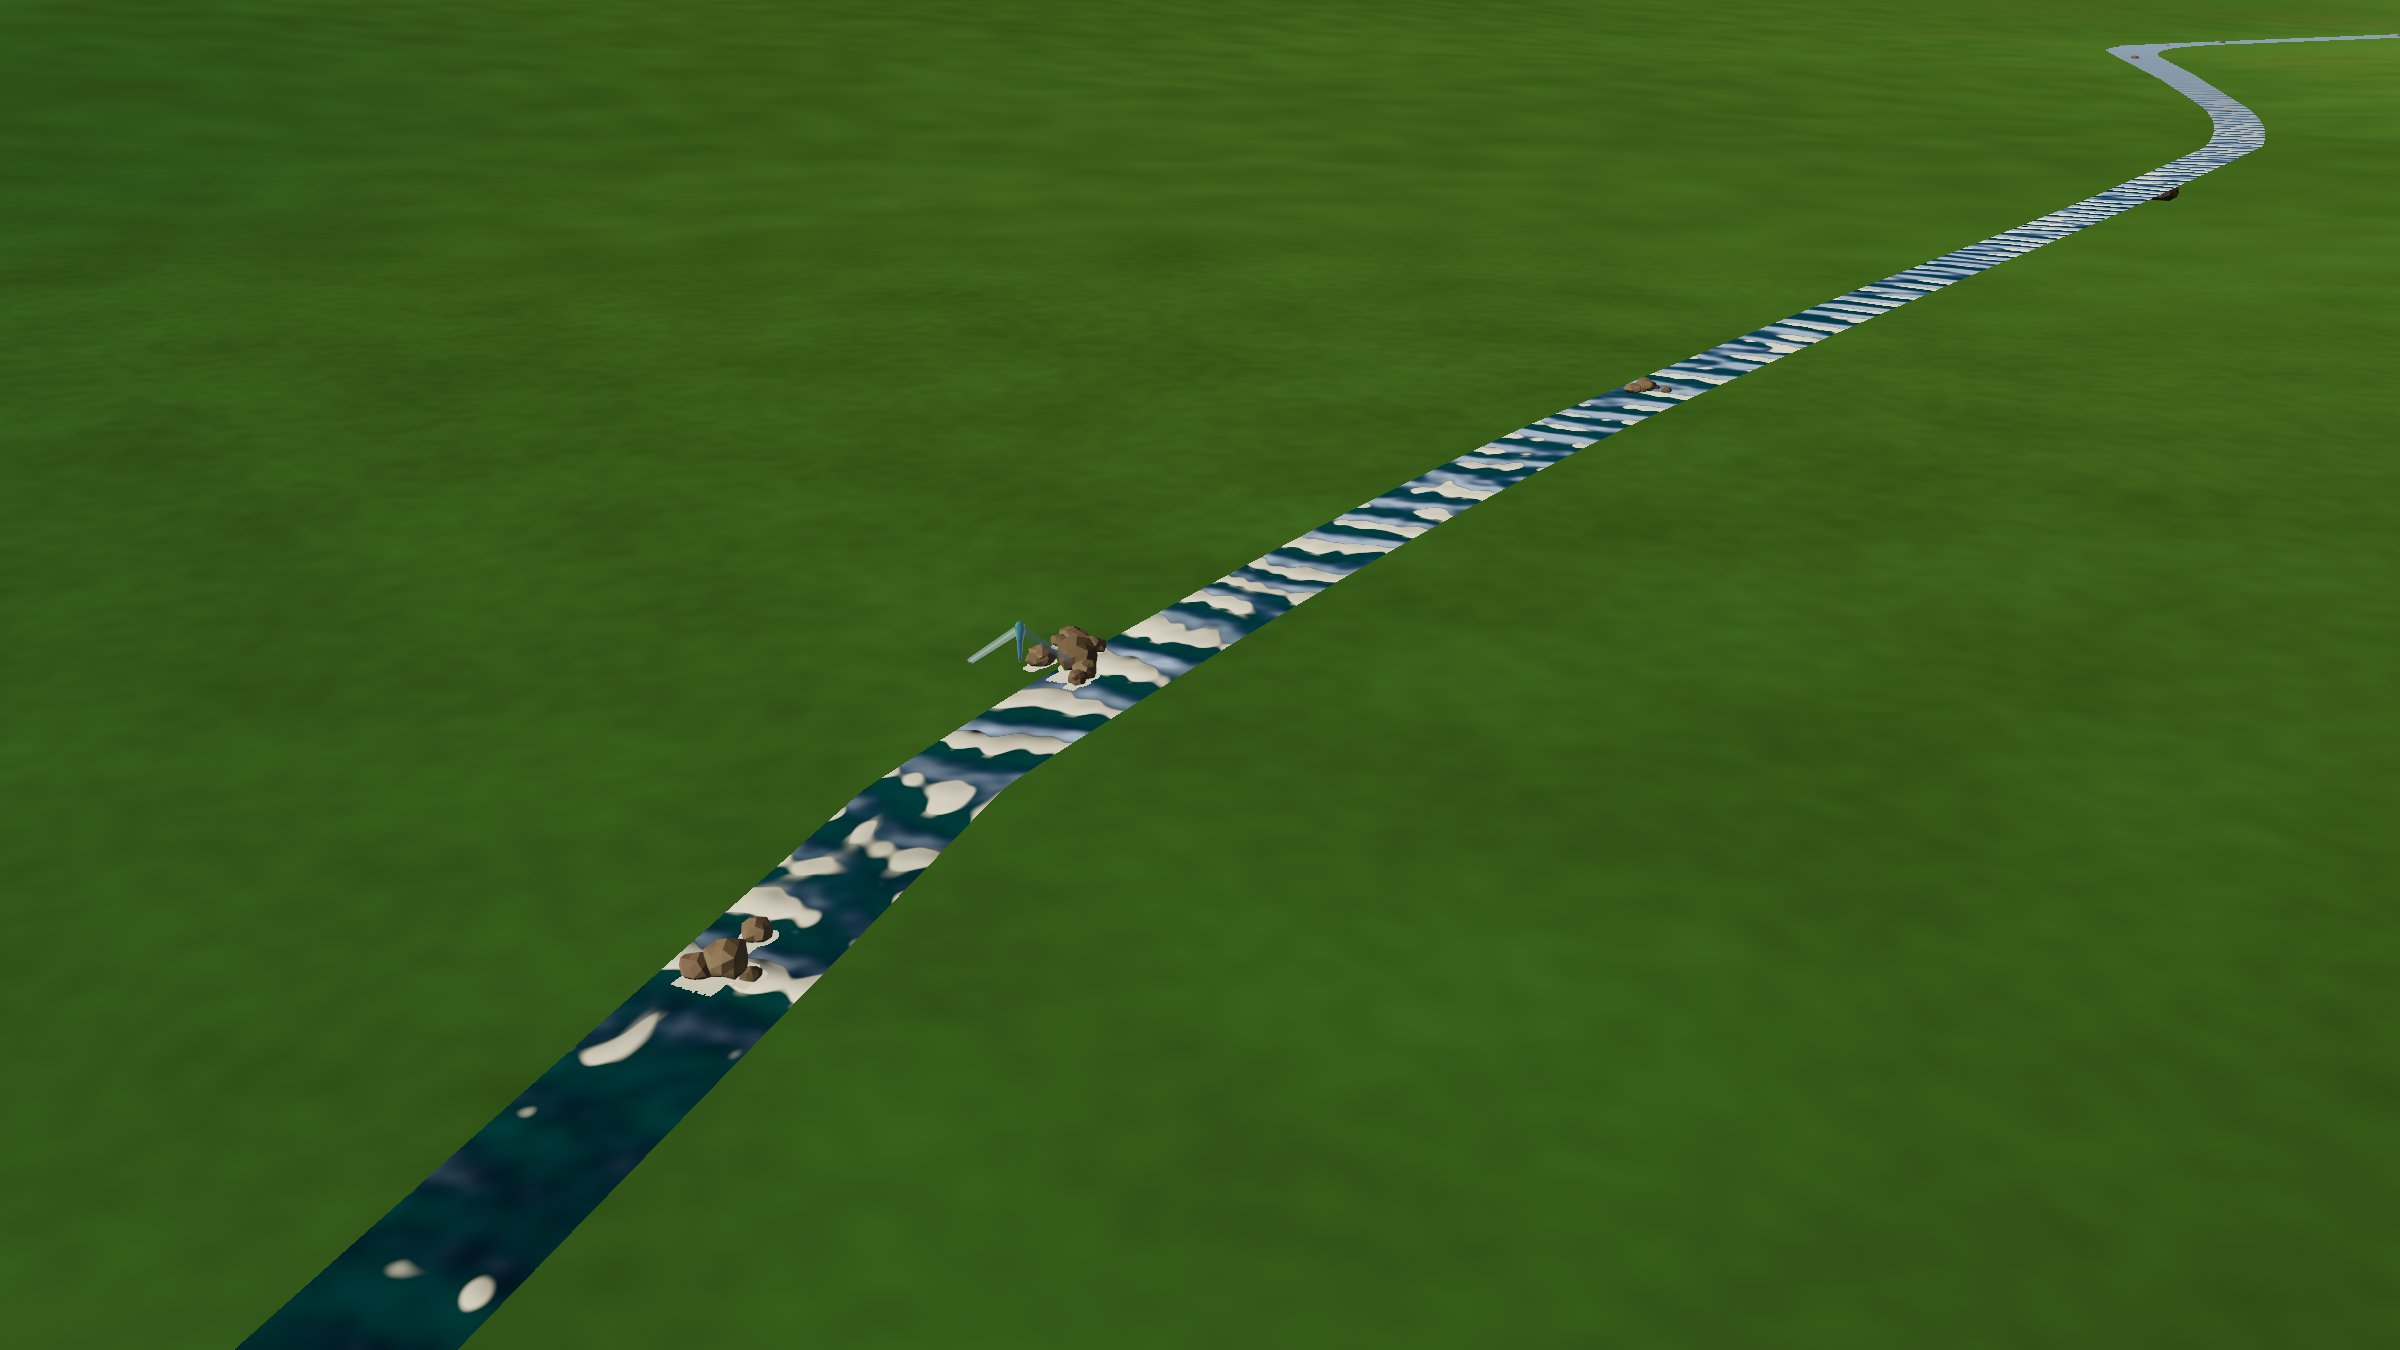
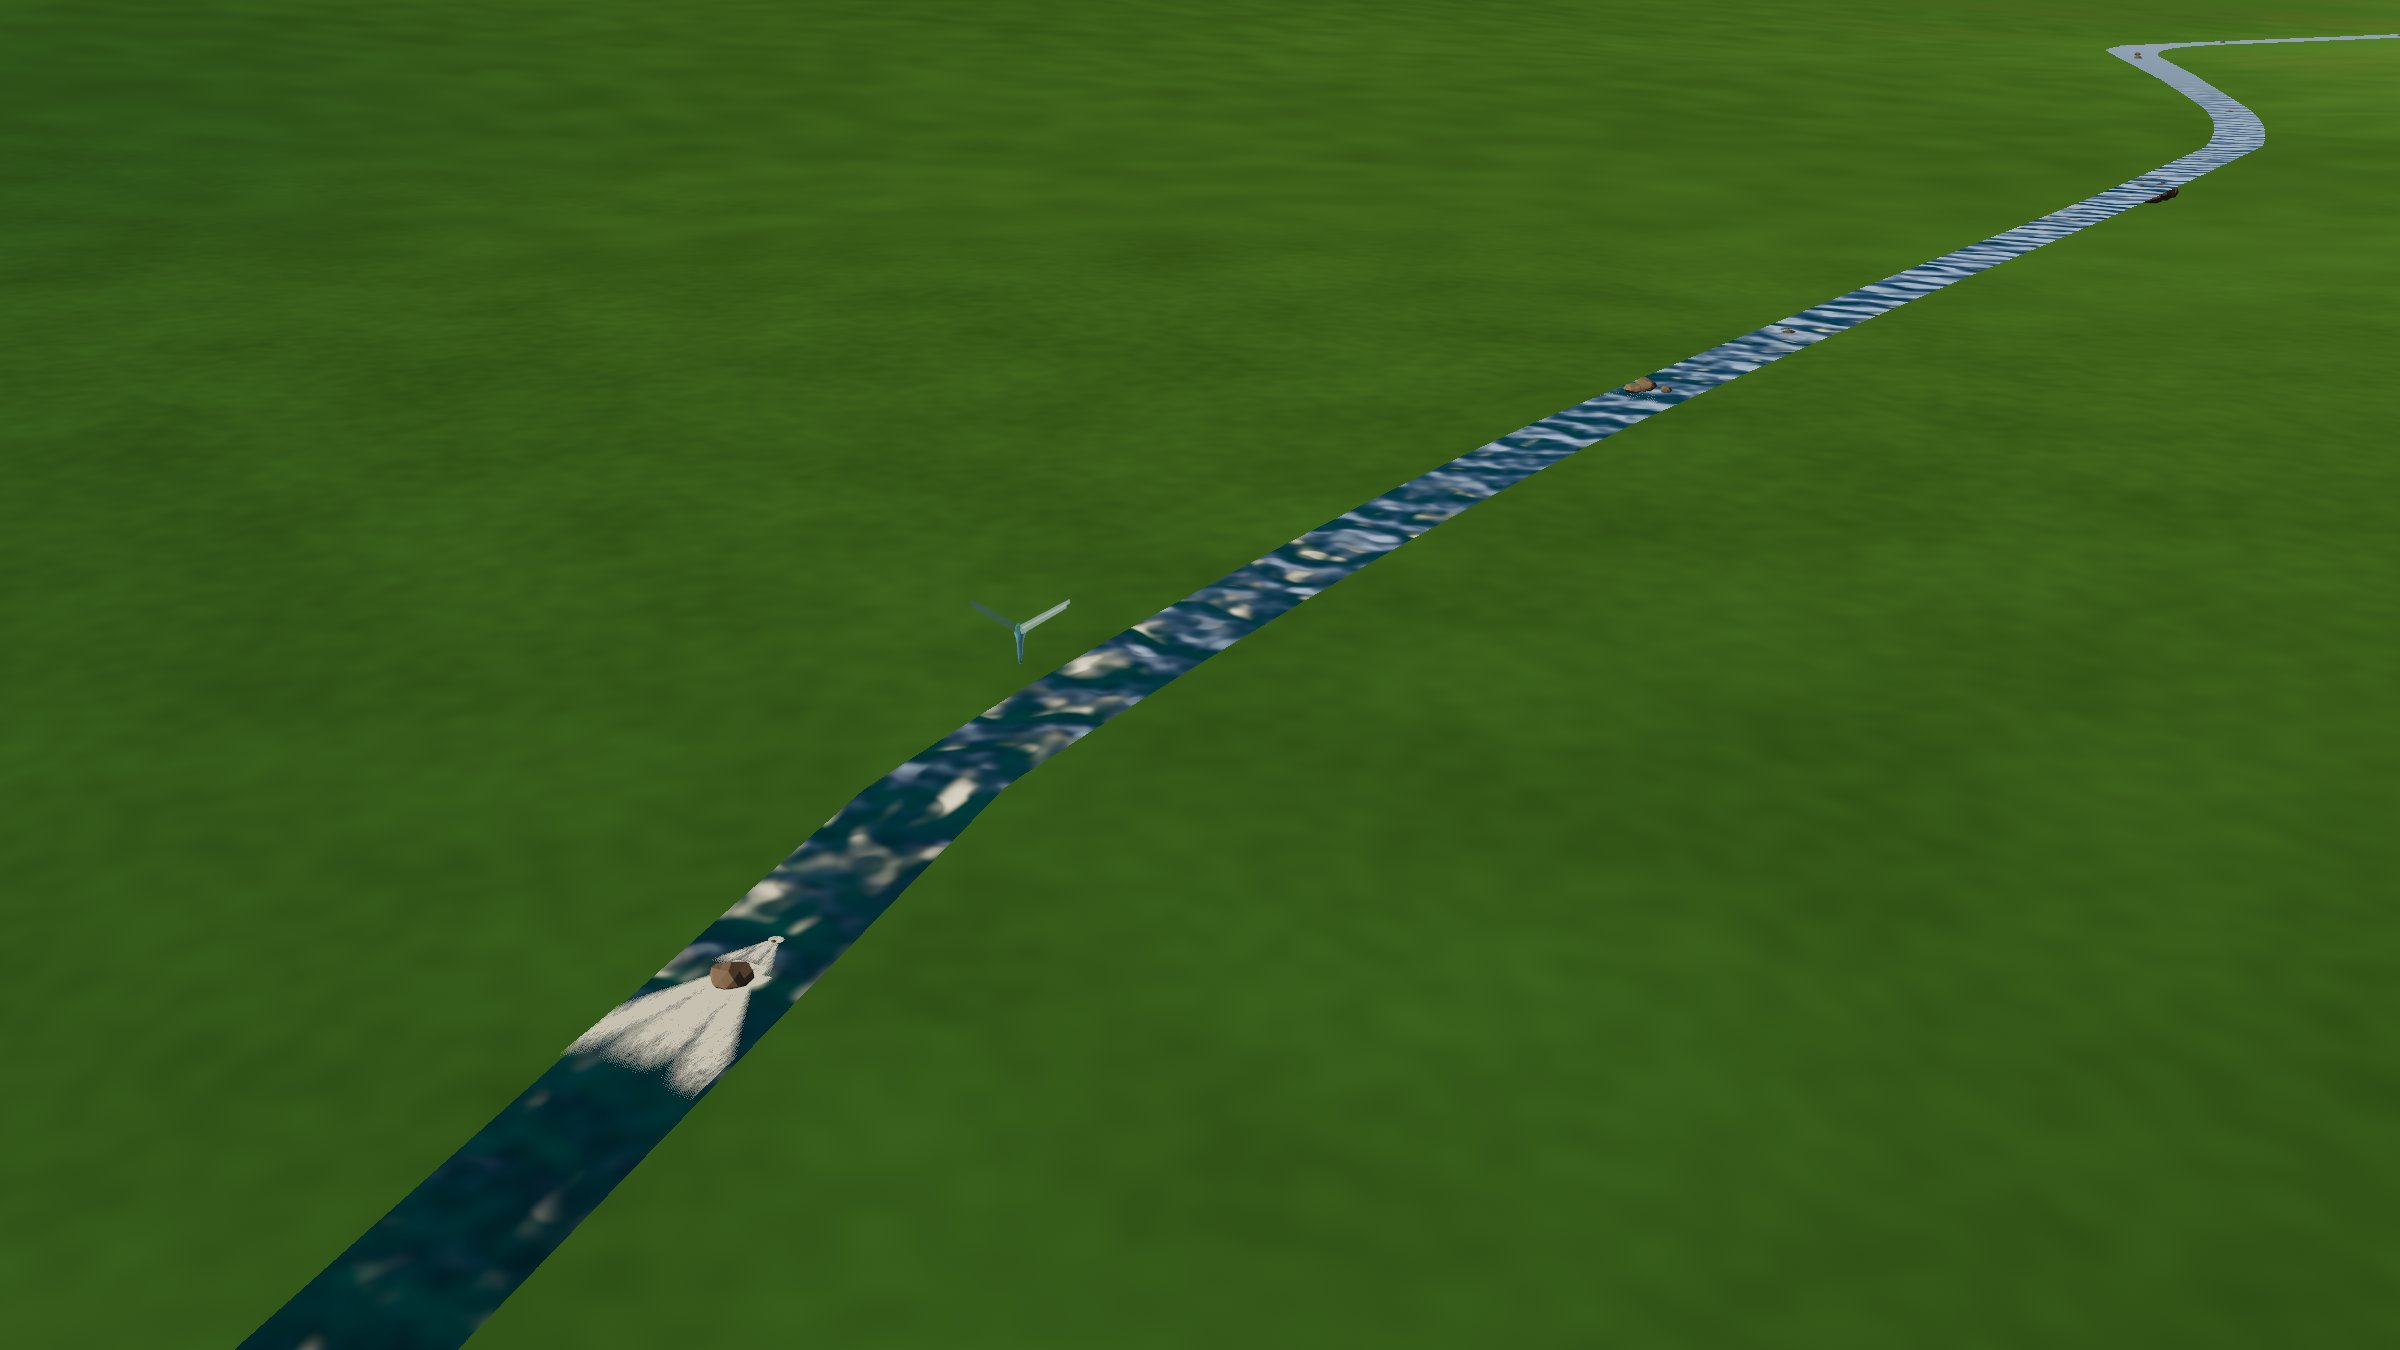
docs: journey runs under the new hop baseline; rapid close-up at HEAD
- performance.md: three native journey runs at 385bdfc under the
  leg-flight baseline: hop memory passes in all (worst +32.6, +30.5,
  +41.5 MiB; a first hop the old baseline read at +68.9 now reads
  -253.9). Run 1 PASS; run 2 FAIL on the Andes flight alone (uncapped
  p95 16.81 ms against 16.67), not repeated in run 3 (PASS). The
  round-6 run as supporting. The new web-release build of 385bdfc.
- Parent spec section 14: the hop-memory outcome.
- manual-checks.md check 9: the rapid close-up re-rendered at 385bdfc
  and described as it ships; the foam figures of the shipped look.

diff --git a/docs/testing/rivers/performance.md b/docs/testing/rivers/performance.md
@@ -34,7 +34,7 @@ TIMEFLY_LOG_DIR="$(mktemp -d)" TIMEFLY_LOG=warn,timefly=info,timefly::hop_memory
 | `--region-bench` run 1 (first launch) | FAIL (exit 3): R14 in Sundaland, Beringia, the Rockies (and its globe pan) and Panama, during the other session's build and a display change mid-run; everything else passes |
 | `--journey-bench` run 2 (judged) | **FAIL (exit 3) on hop memory alone: the first hop +78.1 MiB** against +64; every other hop +22.0 to +45.4 MiB; every other gate passes (holds, flight, swap worst frame 33.75 ms, route checks, journey memory +3.5%) |
 | `--journey-bench` run 1 | FAIL (exit 3) on hop memory alone: the first hop +72.0 MiB; the others +44.4 to +54.8 MiB (uncapped, which reads higher, as Task 7 found) |
-| Hop-memory baseline (owner, 2026-11-27: "Fix the hop-memory baseline") | **Changed in Task 12's fix round 1** (`bffa796`): the native gate judges a hop against the highest footprint of the flight before it, not the last flying frame. **The two journey runs under it are pending** (they wait for Task 11c's round 6, which fixes a crash on a hop); see "The baseline, fixed" below |
+| Hop-memory baseline (owner, 2026-11-27: "Fix the hop-memory baseline") | **Changed in Task 12's fix round 1** (`bffa796`): the native gate judges a hop against the highest footprint of the flight before it, not the last flying frame. **Re-run at the final HEAD (`385bdfc`) under it: hop memory PASSES in every run** (worst +32.6, +30.5 and +41.5 MiB). Run 1 PASS; run 2 FAIL on the Andes flight alone (uncapped p95 16.81 ms against 16.67, 50 missed frames), not repeated in run 1 or a third run (PASS). See "Journey bench at the final HEAD" below |
 | Hop-memory escalation (plan Step 3) | (1) `APRON_RIVER_MIN_DISCHARGE_M3S` 200 → 1,000, two runs: **still FAIL** (worst +71.0 and +64.5 MiB, again on hops whose baseline fell into a trough). (2) Dropping the CPU river array after upload: already in place since Task 7 (`free_rivers`). **The gate is the owner's call** (below) |
 | `--scrub-bench` (one run) | **PASS** (display-paced; older 16.70 / 18.47 / 32.12 ms, 0.08% missed; younger 16.68 / 18.41 / 22.52 ms) |
 | The continental pass, native (target ≤ 1,000 ms, reported) | 0 ka 1,033–1,449 ms wall; 21 ka 1,099–1,231 ms; deep eras 433–755 ms: **over the native target at 0 ka and 21 ka** (Task 10: 930–1,050 ms), under it deep |
@@ -164,8 +164,41 @@ web on the last flying frame). The old rule fails the first and the third.
 
 Under the new baseline, run 2's hops read: hop 1 1,106.3 − 1,299.2 = −192.9 MiB, hop 2 +45.3
 (its leg flew at 1,061.0), and every later hop at most what it read before (the new baseline is
-never below the last flying frame), so at most +45.4: by the trace, the run would pass. **The two native journey runs under the new code are pending** (Task 11c's round 6
-first: at `03d96b9` the app can quit on the first hop).
+never below the last flying frame), so at most +45.4: by the trace, the run would pass. The journey runs under the new code follow.
+
+#### Journey bench at the final HEAD under the new baseline (Task 12's fix round 1)
+
+HEAD `385bdfc` (Task 11c's round 6, after this round's `bffa796`), `release`, launched through
+the scratch `.app` with `open` (window in front, the 4K monitor: 2560 × 1440, **uncapped** in
+all three runs, medians 12.0–12.2 ms; GPU readings 8–15 ms, so the main pass was drawn), a fresh
+`TIMEFLY_LOG_DIR` each, `--keep-going`. 1-minute load averages at the starts: run 1 16.4 (it started
+right after the release build), run 2 2.6, run 3 3.2. The binary holds the new summary
+text (`grep -a -c "its leg's highest"` = 1).
+
+| | Run 1 (judged) | Run 2 (judged) | Run 3 (extra) | Round-6 implementer's run (supporting) |
+|---|---|---|---|---|
+| Exit, result | 0, **PASS** | 3, **FAIL: flight** | 0, **PASS** | 0, PASS |
+| Holds (≤ 3,000 ms) | dives 404–720, hops 45–69, climbs 26–39 ms: PASS | PASS | dives 400–725 ms: PASS | PASS |
+| Flight per route (uncapped rule, p95 ≤ 16.67 ms) | Andes 12.89 / 15.52 / 37.20 (4 missed), Grand Canyon 12.27 / 14.20, Mt Fuji 9.49 / 12.31: PASS; Pangaea 15.31 / 18.06, FAIL reported only | **Andes 12.85 / p95 16.81 / 55.51 ms, 50 missed: FAIL**; Grand Canyon, Mt Fuji PASS; Pangaea FAIL reported only | Andes 12.73 / 15.98 (10 missed), Grand Canyon 12.96 / 16.60, Mt Fuji 9.48 / 12.77: PASS; Pangaea FAIL reported only | PASS (uncapped, median 12.09 ms) |
+| Swap worst frame (≤ 100 ms) | 20.20 ms | 23.01 ms | 21.20 ms | 19.99 ms |
+| **Hop memory (≤ +64 MiB over the leg's flight)** | **PASS, worst +32.6** | **PASS, worst +30.5** | **PASS, worst +41.5** | PASS, worst +43.2 |
+| Each hop, new [old baseline] | +31.9 [+32.3], +26.8 [+26.8], +22.3 [+23.0], −0.3 [+0.2], +27.3 [+28.4], +25.1 [+25.4], +28.4 [+29.6], +32.6 [+33.0], +21.3 [+21.9], +22.3 [+22.6] | **−253.9 [+68.9]**, +27.8 [+28.0], +21.6 [+22.9], +22.6 [+23.4], +24.2 [+25.3], +26.1 [+26.4], +29.7 [+30.8], +30.5 [+30.9], +20.8 [+22.5], +21.5 [+21.8] | −144.5 [+10.2], +24.6 [+24.7], +21.7 [+23.1], +23.0 [+23.2], −2.7 [+28.3], +25.4 [+25.6], +41.5 [+42.7], +28.6 [+29.3], +21.1 [+22.8], +22.6 [+22.7] | first hop +32.0 [+32.1] |
+| Route checks; journey memory cycles | PASS; Andes −6.3% | PASS; Andes +3.5% | PASS; Andes +5.8% | PASS; Andes +5.6% |
+| Continental pass, 0 ka / 250 Ma (wall ms) | 1,141 / 639 | 1,162 / 652 | — | — |
+
+**What the new baseline changed.** Run 2's first hop is the trough case again: the old baseline
+read **+68.9 MiB, which would have failed** the gate; against the leg's flight it is −253.9 MiB
+(the hop peaked 254 MiB under the flight). Every other hop reads within 0–1.7 MiB of its old
+figure, except run 3's Grand Canyon hop 1 (−2.7 against +28.3, another smaller trough). No hop in
+the four runs came within 20 MiB of the gate.
+
+**Run 2's flight failure.** The Andes route's uncapped p95 read 16.81 ms against the uncapped
+rule's 16.67, with 50 frames over 25 ms; run 1 read 15.52 ms (4 missed) and run 3 15.98 ms (10
+missed) on the same binary, and the round-6 run passed too. It is a gated failure on one of the
+two judged runs, so it is recorded as such; it looks like a disturbance in that session (an
+activity log ran only during run 3, so run 2's cause can't be shown). Uncapped runs on this 4K
+monitor sit close to the rule (Andes medians 12.7–12.9 ms, p95 15.5–16.8 ms), unlike the
+display-paced runs on the 1080p display, where the paced rule applies.
 
 **`MAX_BOULDERS` stays 16,384.** Task 11c's ruling let it rise to 32,768 only if this task's hop
 memory stayed under the gate; it did not.
@@ -259,12 +292,14 @@ this run changed only rocks and the water's look, not the pass.)
 
 ### Chrome WebGPU (Task 12, Step 2): PENDING, the controller's run in the owner's Chrome
 
-**The build** (Task 12): `web-release` (wasm32, no features) of HEAD `9814212`, built 2026-11-26:
+**The build** (Task 12's fix round 1): `web-release` (wasm32, no features) of HEAD `385bdfc`
+(Task 11c's round 6, after this task's `bffa796`), built 2026-11-27:
 
-- `timefly-task12.wasm`, 73,887,711 bytes, sha256
[1 lines of base64/hex data omitted]
-- `grep -a -c 'fn white_water_foam'` finds 1 (Task 11c's fix round, the last code commit; the
-  shaders are embedded), and `grep -a -c 'Indus tributaries'` finds 1.
+- `timefly-task12-fr1.wasm`, 73,925,135 bytes, sha256
[1 lines of base64/hex data omitted]
+- `grep -a -c CREST_FLICKER_PERIOD_S` finds 4 (a WESL constant new in round 6; the shaders are
+  embedded), `'fn white_water_foam'` 1 and `'Indus tributaries'` 1. (The first round's build of
+  `9814212` is superseded.)
 
 Serve it as in Task 10's Chrome section below (`cd <root with assets/>; wasm-server-runner <wasm>`, then
 `http://127.0.0.1:1334/?region-bench` and `?journey-bench` in an Incognito window, in front,

diff --git a/docs/testing/rivers/manual-checks.md b/docs/testing/rivers/manual-checks.md
@@ -139,20 +139,19 @@ and white water (11c).
 - [ ] Rocks break the surface in clusters, with a foam collar on each, piling white on the
       upstream face and trailing downstream.
 - [ ] Standing waves hold still while the foam runs through them.
-- [ ] The amount of white is right (your "less white" of 2026-11-26: foam on the crests and in
-      the rocks' wakes, about a fifth of the water at a full rapid).
-- [ ] From afar a rapid reads pale, not white (`FOAM_MEAN` 0.28): is that right, or should
+- [ ] The amount of white is right (your "softer, whiter wakes" of 2026-11-27: white at the
+      rocks, 10–28% of the water at the wide reference poses, crests sparse and irregular).
+- [ ] From afar a rapid reads pale, not white (`FOAM_MEAN` 0.19): is that right, or should
       distant rapids read whiter? ______
 
-**This shot predates Task 11c's rounds 2–5** (rocks held to the drawn water, the rock-driven,
-animated white water); a render at the final HEAD replaces it in Task 12's fix round 1, after
-Task 11c's round 6. At `9814212` some rocks sat on the bank beside the drawn water; that is
-fixed since round 2.
-
-Shot: `render-rapid-closeup.jpg` (a crop of a 3840 × 2160 frame at 150 m). Foam streaks and
-rock clusters with collars up close. Note for this check: farther up the reach the standing
-waves read as regular, evenly spaced stripes across the channel (a ladder pattern), and the
-river lies on a smooth grassy slope with no visible banks or gorge at this place.
+Shot: `render-rapid-closeup.jpg`, re-rendered at the final HEAD (`385bdfc`, Task 11c's round 6;
+a crop of a 3840 × 2160 frame at 150 m). Every rock in view sits in the drawn water (since 11c's
+round 2; at `9814212` some sat on the bank). The near breaker trails one broad, solid white wake
+downstream, a fluffy triangle with a feathered edge: the round-5 look the owner shipped
+("Ship, tune later"), with lacier wakes a follow-up. Two small clusters with short wakes sit
+farther up. The background crest foam is sparse and irregular (the old ladder of white stripes
+is gone), though the distant reach still shows fine, regular ripples across the flow. The river
+lies on a smooth grassy slope with no visible banks or gorge at this place.
 
 ### 10. Hells Canyon: the Snake in its canyon
 

diff --git a/docs/superpowers/specs/2026-11-21-time-fly-design.md b/docs/superpowers/specs/2026-11-21-time-fly-design.md
@@ -298,7 +298,7 @@ Watercraft appear on rivers, lakes, coasts and seas **only where and when the hi
      - The reality check's Indus box fails its "every reference link has a game river" bar (74 of 84; the Shyok and the Arghandab are not in Natural Earth's rivers); the owner's call.
      - The Chrome WebGPU numbers are pending; the controller fills them in `docs/testing/rivers/performance.md`.
      - The white-water look ships as it is *(owner, 2026-11-27: "Ship, tune later")*; lacier wakes are a follow-up.
-     - The native hop-memory gate (+64 MiB) now judges a hop against the flight before it *(owner, 2026-11-27: "Fix the hop-memory baseline")*. Its two native journey runs under the new baseline are pending: they wait for Task 11c's round 6, which fixes a crash on a hop.
+     - The native hop-memory gate (+64 MiB) now judges a hop against the flight before it *(owner, 2026-11-27: "Fix the hop-memory baseline")*. At the final HEAD hop memory passes in every run (worst +32.6, +30.5 and +41.5 MiB; a first hop the old baseline read at +68.9 MiB now reads −253.9). One of the two judged journey runs failed its Andes flight (uncapped p95 16.81 ms against 16.67), which a third run did not repeat; the owner's call.
 
      Follow-ups after it *(owner)*: a coastline mask for polders, lagoons and New Orleans; channel losses (the Nile reads about 5× its gauged flow at Aswan); a lake map re-baked from water surfaces; lacier white-water wakes; the drawn bank's kinks on narrow rivers; the render issues listed in `docs/testing/rivers/manual-checks.md` (the Andes valley steps and water slivers, Sri Lanka's short rivers, the Sichuan pit, the Volga's single-channel delta, Baikal's shore patches, Mega-Chad's speckled shore).
 4. **Local worlds:** CDLOD at fine scale with vegetation, entered from regions (region ↔ local), likely through the same cloud *(builder's call, not yet decided)*. Then the voxel close-up tier and underwater.
